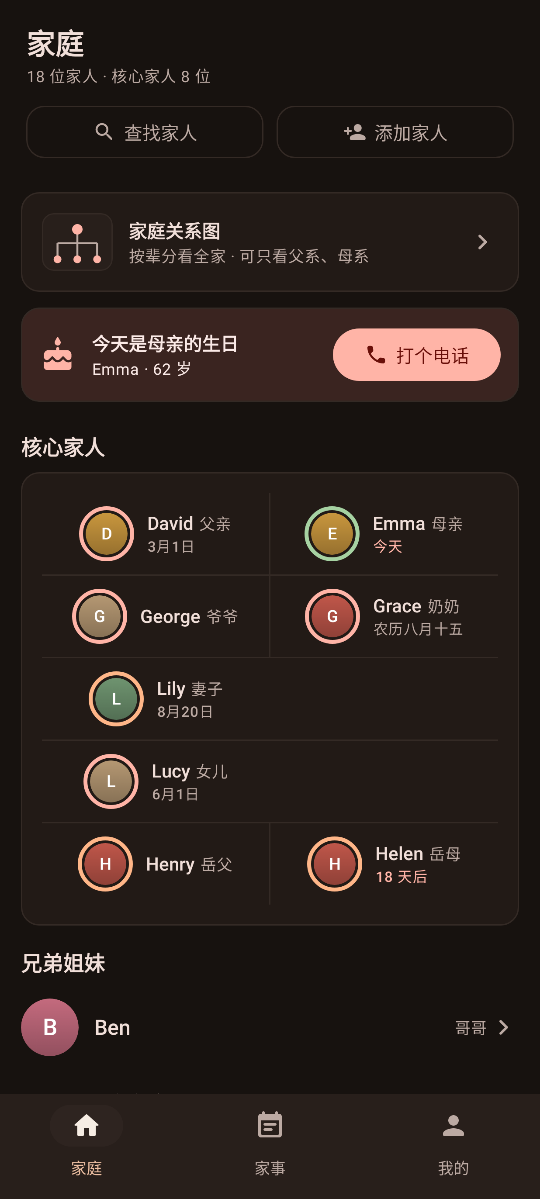
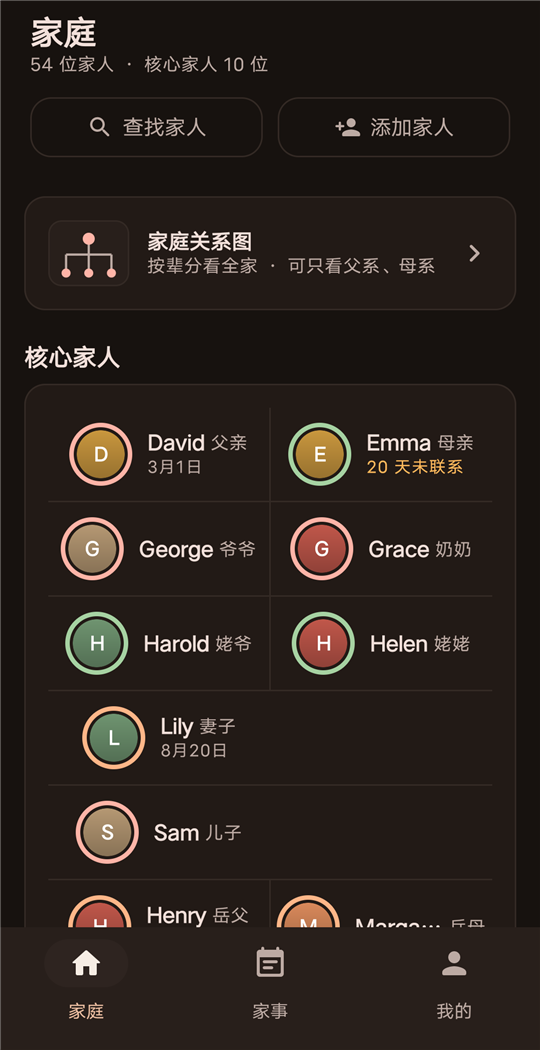
README 截图换为真机实拍界面（英文名合成示例数据）

diff --git a/apps/android/app/src/test/java/io/github/xiaohaoz1/jiarenxia/data/backup/TestFamilyBackupTest.kt b/apps/android/app/src/test/java/io/github/xiaohaoz1/jiarenxia/data/backup/TestFamilyBackupTest.kt
@@ -110,4 +110,70 @@ class TestFamilyBackupTest : RepoTestBase() {
         file.copyTo(out, overwrite = true)
         assertTrue(out.isFile && out.length() > 0)
     }
+
+    /**
+     * 同一家庭的英文名变体（`-PtestFamily=true` 时写
+     * `testdata/jrx_test_family_en.jrxb`，密码同为 test1234）：
+     * 全员改英文名、设为健在（并删掉爷爷的农历忌日），供 README/官网等
+     * 对外真机截图使用，不对应真实家庭。
+     */
+    @Test
+    fun `英文名测试家庭导出`() = runTest {
+        Assume.assumeTrue(
+            "英文名备份仅在 -PtestFamily=true 时生成 testdata/jrx_test_family_en.jrxb",
+            System.getProperty("jrx.testFamily") == "true"
+        )
+        TestFamily.seed(repo, db)
+        val persons = db.personDao().getAll()
+        persons.forEach { p ->
+            val en = ENGLISH_NAMES[p.name] ?: error("缺少英文名映射：${p.name}")
+            db.personDao().update(
+                p.copy(
+                    name = en,
+                    livingStatus = io.github.xiaohaoz1.jiarenxia.core.model.LivingStatus.ALIVE
+                )
+            )
+        }
+        db.importantDateDao().deleteByPersonAndType(
+            persons.first { it.name == "杨福生" }.id,
+            io.github.xiaohaoz1.jiarenxia.core.model.ImportantDateType.DEATH_ANNIVERSARY.name
+        )
+        val file = File(ctx.cacheDir, "jrx_test_family_en.jrxb")
+        FileOutputStream(file).use {
+            val summary = backup.export(it, TestFamily.PASSWORD.toCharArray())
+            assertEquals(55, summary.persons)
+        }
+        val out = File(
+            requireNotNull(File(System.getProperty("user.dir")).parentFile),
+            "testdata/jrx_test_family_en.jrxb"
+        )
+        out.parentFile?.mkdirs()
+        file.copyTo(out, overwrite = true)
+        assertTrue(out.isFile && out.length() > 0)
+    }
+
+    private companion object {
+        /** 中文姓名 → 英文名（覆盖 TestFamily 全员，含“我”）。 */
+        val ENGLISH_NAMES = mapOf(
+            "杨明" to "Alex", "李雪" to "Lily", "杨建国" to "David",
+            "王秀兰" to "Emma", "杨福生" to "George", "李桂英" to "Grace",
+            "杨老太爷" to "Walter", "杨福来" to "Frank", "杨福英" to "Dorothy",
+            "李桂林" to "Victor", "杨建春" to "James", "杨建英" to "Alice",
+            "周丽" to "Rose", "杨磊" to "Leo", "刘静" to "Anna",
+            "杨朵朵" to "Ruby", "杨建华" to "Carl", "杨建业" to "Dennis",
+            "赵红" to "Nancy", "张建明" to "Peter", "李秀梅" to "Betty",
+            "王德福" to "Harold", "赵淑珍" to "Helen", "王志刚" to "Jack",
+            "孙丽" to "Julia", "王磊" to "Ryan", "陈晨" to "Sophie",
+            "王小宝" to "Ethan", "杨帆" to "Ben", "赵敏" to "Laura",
+            "杨小帆" to "Noah", "钱多多" to "Chloe", "杨豆豆" to "Lucas",
+            "杨小明" to "Sam", "吴佳" to "Emily", "吴建军" to "Edward",
+            "郑红" to "Susan", "杨乐乐" to "Owen", "孙悦" to "Mia",
+            "杨小小" to "Felix", "李国强" to "Henry", "陈美华" to "Margaret",
+            "李老爷子" to "Arthur", "刘奶奶" to "Edith", "李国华" to "Tom",
+            "马丽" to "Jane", "李国栋" to "Robert", "陈美玲" to "Carol",
+            "李伟" to "Kevin", "李强" to "Brian", "何静" to "Karen",
+            "李小龙" to "Max", "李老二" to "Oscar", "李国平" to "Paul",
+            "赵老师" to "Oliver"
+        )
+    }
 }

diff --git a/AGENTS.md b/AGENTS.md
@@ -44,11 +44,15 @@ cmd.exe /c "cd /d <产品根目录>\apps\android && gradlew.bat :feature:guardia
 - Lint 报告：`apps/android/app/build/reports/lint-results-debug.html`，要求 0 error。
 - README 截图（写入产品根目录的 `docs/images/`，测试中路径为相对模块目录的 `../../../docs/images/`）与大字号走查图（f13_/f15_ 写入临时目录）为 opt-in：
   `gradlew.bat :app:testDebugUnitTest --tests "*ReadmeShotsTest*" -PreadmeShots=true`；普通测试运行自动跳过。
+  注意：`docs/images/` 的 README 截图自 2026-10-23 起为 vivo 真机实拍版（见下），跑该测试会用 Roborazzi 版覆盖同名文件。
 - 测试家庭备份 `apps/android/testdata/jrx_test_family.jrxb`（合成数据，密码 `test1234`，55 人/54 关系）由
   `TestFamilyBackupTest` 生成：`gradlew.bat :app:testDebugUnitTest --tests *TestFamilyBackupTest* -PtestFamily=true`。
+  同一命令同时生成英文名变体 `testdata/jrx_test_family_en.jrxb`（全员英文名、健在、无忌日，
+  密码同 `test1234`），用于 README/官网等对外真机截图。
   真机使用：`adb.exe -s <serial> push testdata/jrx_test_family.jrxb /sdcard/Download/`，
   应用内 我的 → 从备份恢复 → 选择该文件 → 输入 `test1234`。内容改动需同步更新
   `app/src/test/.../data/backup/TestFamily.kt` 的期望表（`TestFamilyTitlesTest` 常驻校验）。
+  新增人物时需同步 `TestFamilyBackupTest.ENGLISH_NAMES` 映射（缺名会直接报错）。
 - 我的页“测试工具”区（debug 构建直接可见；正式版连点版本号开启 `testToolsEnabled`）：快速存档/读档走
   `data/backup/QuickSnapshotStore`（与备份同格式的加密 ZIP，密钥在 `filesDir/quick_snapshots/`，不进备份、不入云备份），
   “清空数据但保留存档”供走查时快速切换数据场景。

diff --git a/README.md b/README.md
@@ -37,7 +37,7 @@
 | <img src="docs/images/screenshot_affairs.png" width="240"> | <img src="docs/images/screenshot_home_dark.png" width="240"> | |
 | 家事（提醒） | 深色模式 | |
 
-功能截图来自当前 2.0.0 版本，人物均为英文名的合成示例，全部设为健在，不对应真实家庭。
+功能截图为真机实拍的 2.0.0 版本界面，人物均为英文名的合成示例数据，不对应真实家庭。
 
 ---
 
